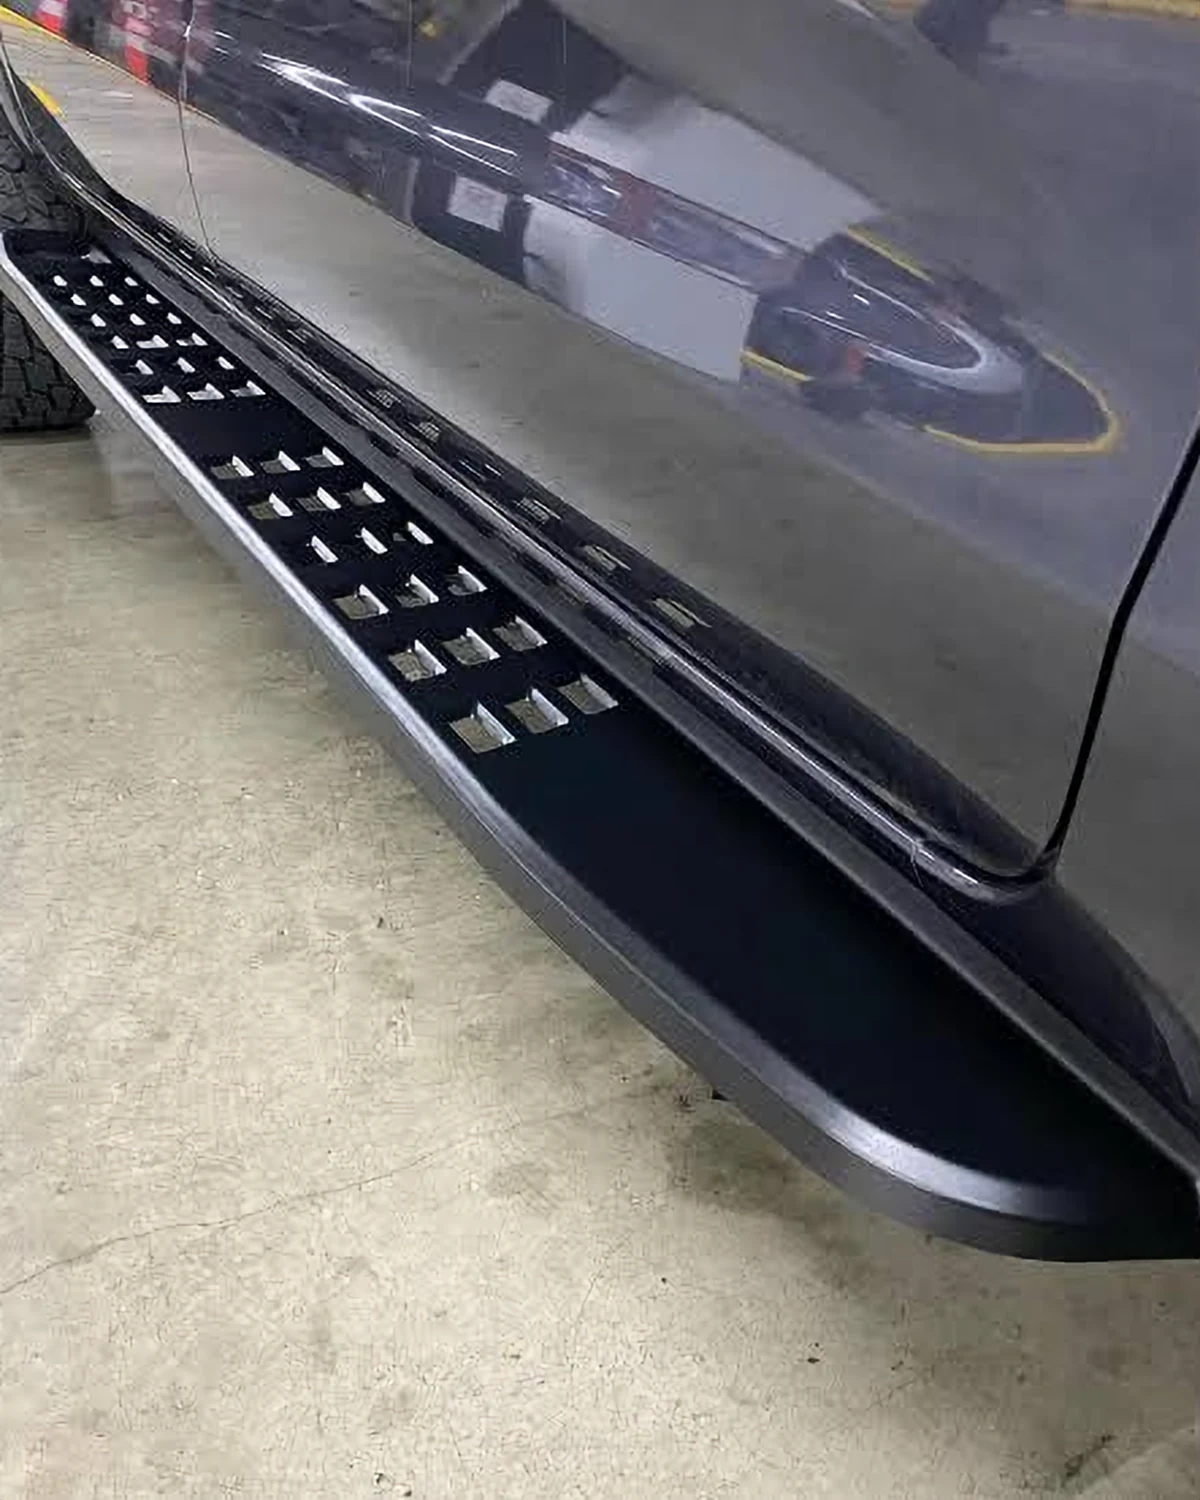
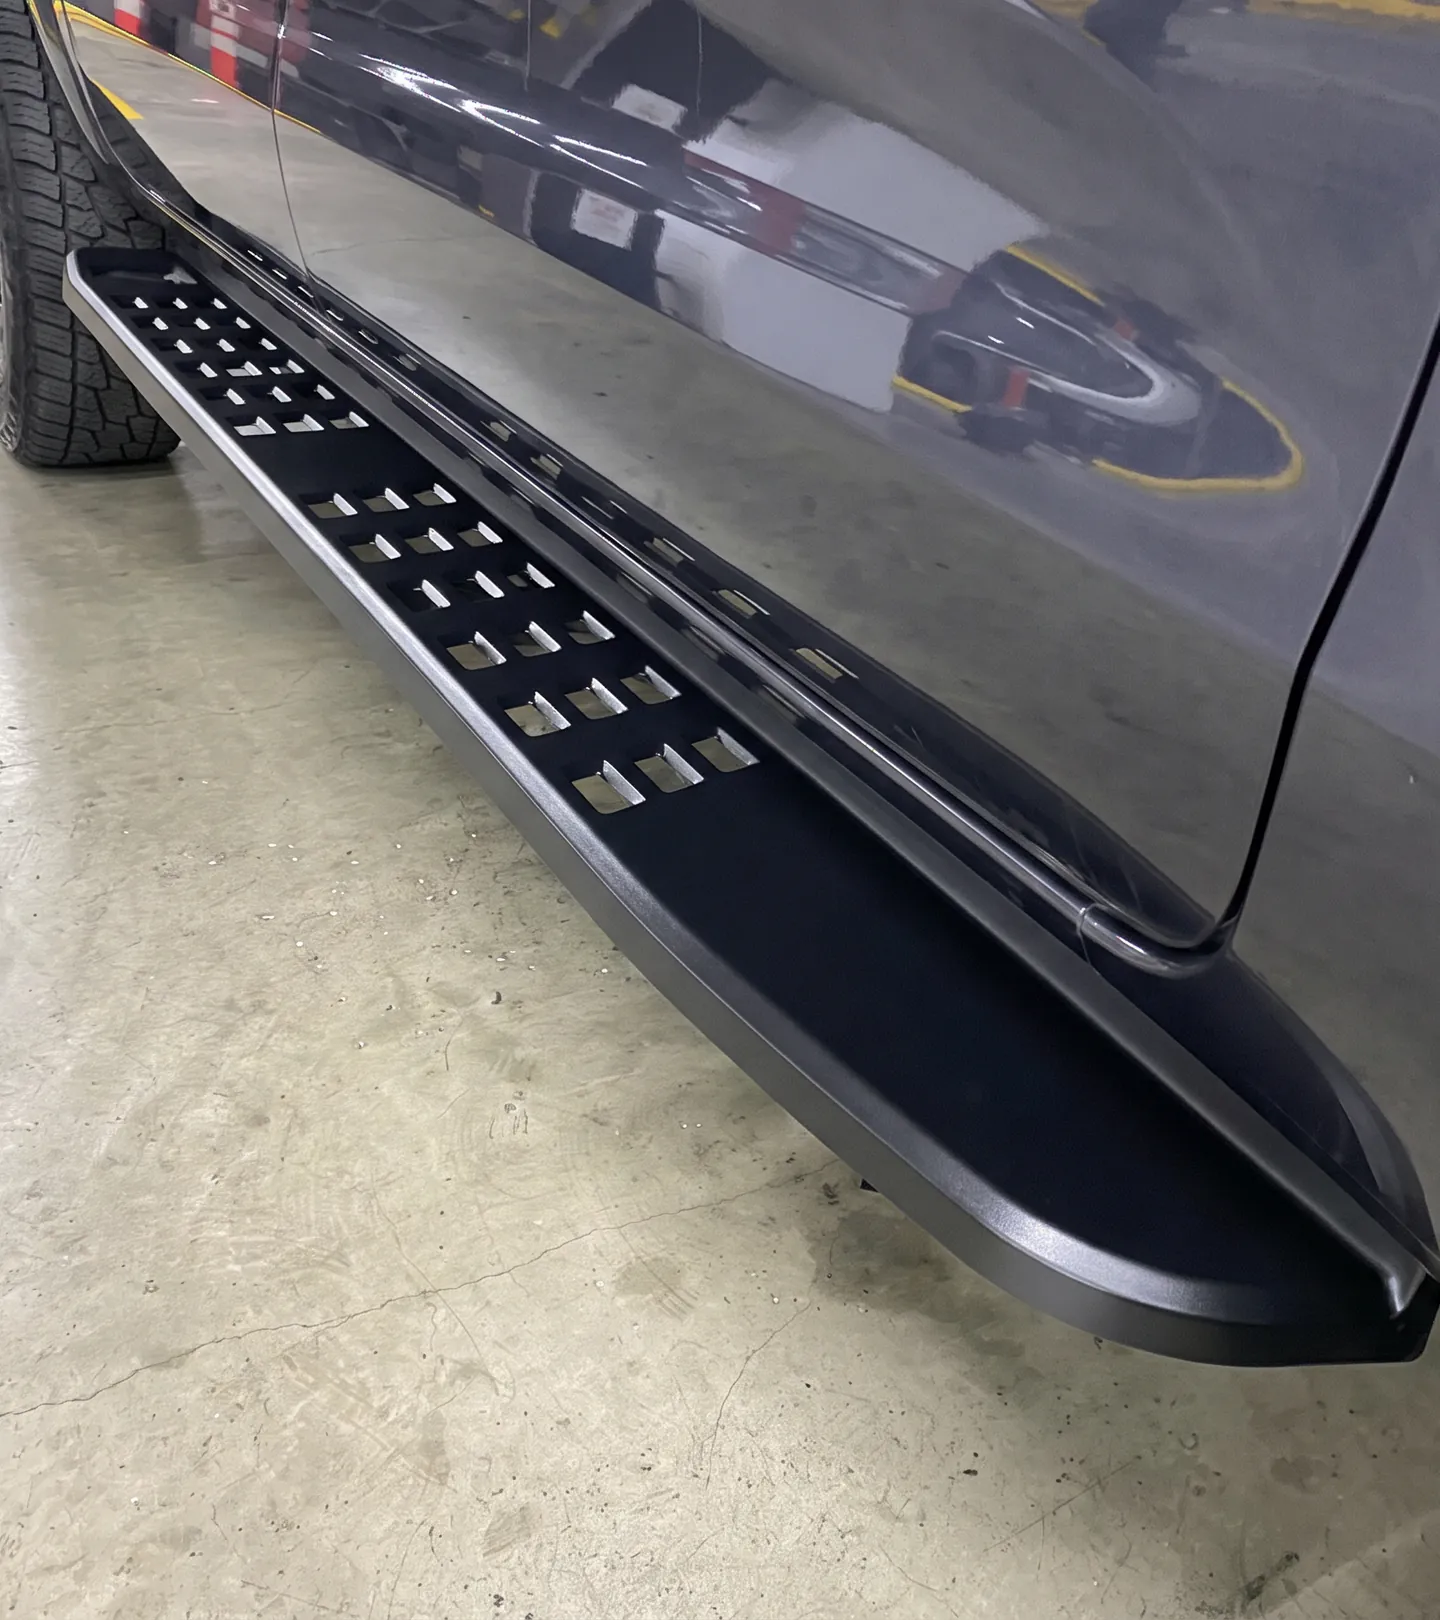
Cambia siete fotos por sus versiones mejoradas
- Detailing y lavado: Lavado completo, Lavado premium, Detailing
  ejecutivo y Detailing completo ("Detailing y Lavado 2" a "5"), con el
  mismo encuadre que Lavado ejecutivo.
- Accesorios off road 4x4: Estribos, Recubrimiento Liner 2K y Moquetas,
  luces y audio ("Detailing y Lavado 6" a "8").
- Todas en 1440x1620 desde originales de 2400 px.

diff --git a/servicios.html b/servicios.html
@@ -113,19 +113,19 @@
       <div class="wipes__text"><h3 class="display">Lavado ejecutivo</h3><p>Exterior del carro y aspirado.</p></div>
     </article>
     <article class="wipes__step">
-      <figure><img src="assets/img/step-completo.webp" width="1200" height="1500" loading="lazy" alt="Lavado de llanta y carrocería con espuma"></figure>
+      <figure class="below-header"><img class="focus-top" src="assets/img/step-completo.webp" width="1440" height="1620" loading="lazy" alt="Lavado de llanta y carrocería con espuma"></figure>
       <div class="wipes__text"><h3 class="display">Lavado completo</h3><p>Exterior del carro, aspirado y chasis.</p></div>
     </article>
     <article class="wipes__step">
-      <figure><img src="assets/img/step-premium.webp" width="1200" height="1500" loading="lazy" alt="Técnico lavando un auto blanco con espuma"></figure>
+      <figure class="below-header"><img class="focus-top" src="assets/img/step-premium.webp" width="1440" height="1620" loading="lazy" alt="Técnico lavando un auto blanco con espuma"></figure>
       <div class="wipes__text"><h3 class="display">Lavado premium</h3><p>Exterior del carro, aspirado, chasis y motor.</p></div>
     </article>
     <article class="wipes__step">
-      <figure><img src="assets/img/step-det-ejecutivo.webp" width="1152" height="1440" loading="lazy" alt="Brocha limpiando el tablero de un auto"></figure>
+      <figure class="below-header"><img class="focus-top" src="assets/img/step-det-ejecutivo.webp" width="1440" height="1620" loading="lazy" alt="Brocha limpiando el tablero de un auto"></figure>
       <div class="wipes__text"><h3 class="display">Detailing ejecutivo</h3><p>Limpieza interna completa, sin desmontaje.</p></div>
     </article>
     <article class="wipes__step">
-      <figure><img src="assets/img/step-det-completo.webp" width="1200" height="1500" loading="lazy" alt="Limpieza profunda de asientos y piso con extractor"></figure>
+      <figure class="below-header"><img class="focus-top" src="assets/img/step-det-completo.webp" width="1440" height="1620" loading="lazy" alt="Limpieza profunda de asientos y piso con extractor"></figure>
       <div class="wipes__text"><h3 class="display">Detailing completo</h3><p>Desmontaje interno y limpieza completa.</p></div>
     </article>
   </div>

diff --git a/productos.html b/productos.html
@@ -74,7 +74,7 @@
       <div class="wipes__text"><h3 class="display">Roll bar y barras de tiro</h3><p>Roll bar en varios modelos y barras de tiro.</p></div>
     </article>
     <article class="wipes__step">
-      <figure><img src="assets/img/acc-estribos.webp" width="1200" height="1500" loading="lazy" alt="Estribo negro instalado en una camioneta"></figure>
+      <figure><img src="assets/img/acc-estribos.webp" width="1440" height="1620" loading="lazy" alt="Estribo negro instalado en una camioneta"></figure>
       <div class="wipes__text"><h3 class="display">Estribos</h3><p>De aluminio, metálicos y tipo Raptor.</p></div>
     </article>
     <article class="wipes__step">
@@ -82,11 +82,11 @@
       <div class="wipes__text"><h3 class="display">Fenders y body kit</h3><p>Fenders en juego de 4 piezas. Body kit para Toyota Hilux, Toyota Fortuner, Isuzu, D-Max y Ford Ranger.</p></div>
     </article>
     <article class="wipes__step">
-      <figure><img src="assets/img/acc-balde.webp" width="1200" height="1500" loading="lazy" alt="Balde de camioneta con recubrimiento"></figure>
+      <figure><img src="assets/img/acc-balde.webp" width="1440" height="1620" loading="lazy" alt="Balde de camioneta con recubrimiento"></figure>
       <div class="wipes__text"><h3 class="display">Recubrimiento Liner 2K</h3><p>Protectores para varios modelos de pickup y recubrimiento Liner 2K contra golpes, rayones, abrasión y corrosión. Capotas de lona enrollable, tapa rígida de 3 partes y retráctiles.</p></div>
     </article>
     <article class="wipes__step">
-      <figure><img src="assets/img/acc-interior.webp" width="1200" height="1500" loading="lazy" alt="Moquetas termoformadas negras en el piso de un auto"></figure>
+      <figure><img src="assets/img/acc-interior.webp" width="1440" height="1620" loading="lazy" alt="Moquetas termoformadas negras en el piso de un auto"></figure>
       <div class="wipes__text"><h3 class="display">Moquetas, luces y audio</h3><p>Moquetas termoformadas de 3 y 4 piezas. Luces LED Philips altas, bajas y halógenos. Pantallas de 7 y 8 pulgadas, parlantes y bajos amplificados.</p></div>
     </article>
   </div>
